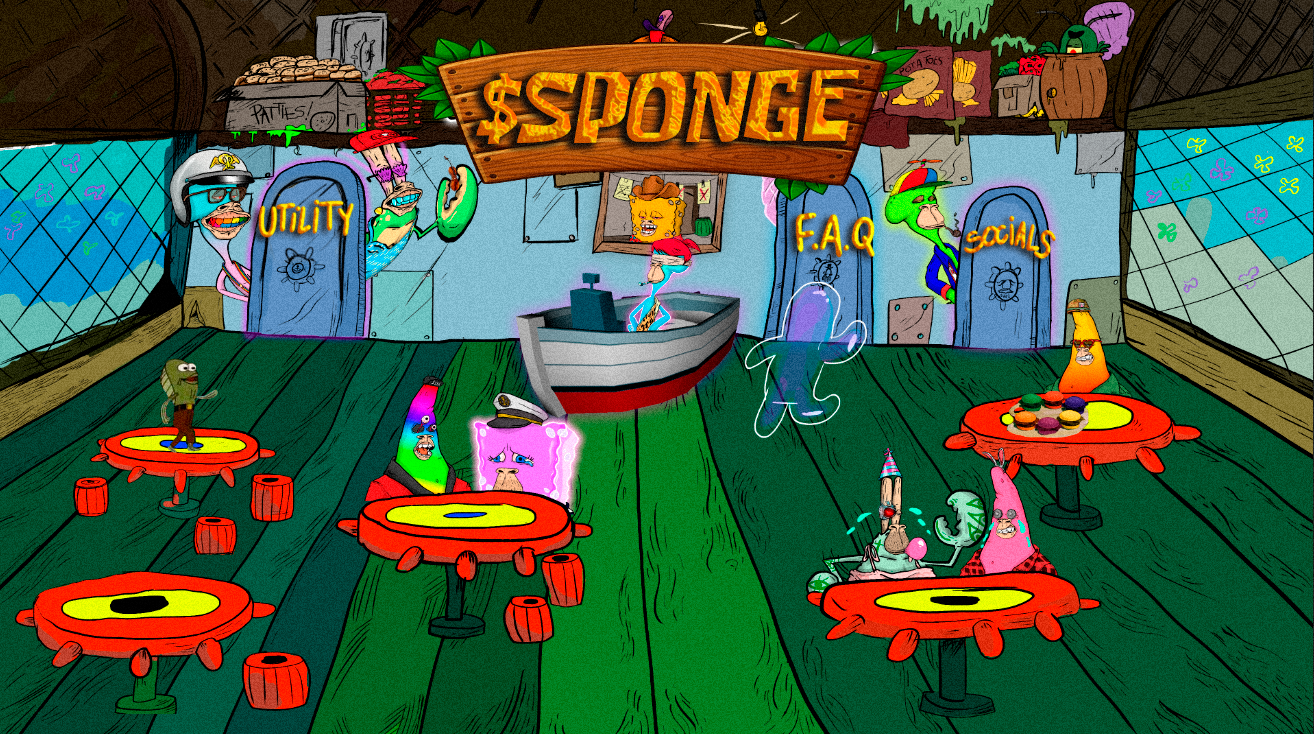
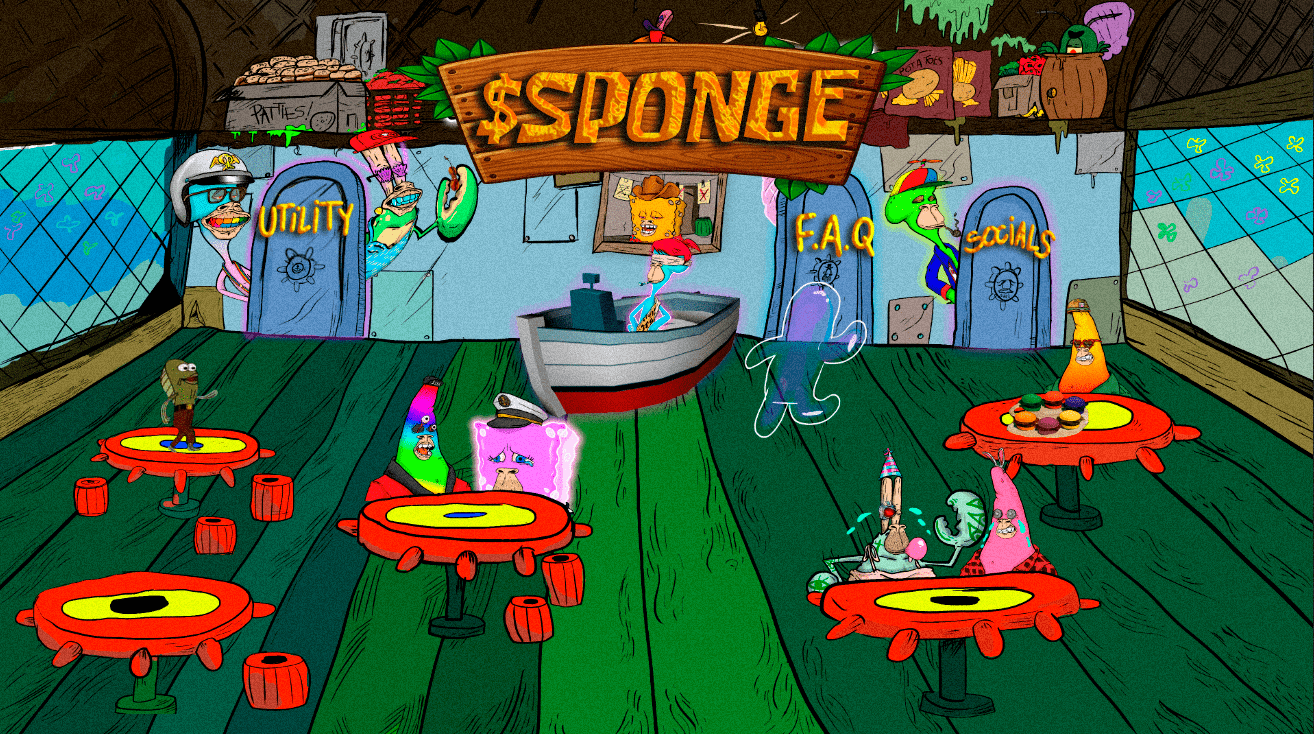
new

diff --git a/index.html b/index.html
@@ -30,7 +30,7 @@
         <img class="main-img first" src="./img/site.png" usemap="#image-map" />
         <img class="main-img" src="./img/FOG_BACKGROUND.png" />
         <img class="main-img" src="./img/FAQ---SPONGEBORED.png" />
-        <img class="main-img" src="./img/socials.png" usemap="#image-map2" />
+        <img class="main-img" src="./img/socials2.png" usemap="#image-map2" />
 
         <map name="image-map">
           <area
@@ -62,26 +62,26 @@
         <map name="image-map2">
           <area
             target="_blank"
-            alt=""
-            title=""
-            href="https://twitter.com/spongeyerc"
-            coords="337,918,1321,2125"
+            alt="telegram"
+            title="telegram"
+            href="#"
+            coords="314,233,844,986"
             shape="rect"
           />
           <area
             target="_blank"
-            alt=""
-            title=""
+            alt="x"
+            title="x"
             href="#"
-            coords="1521,954,2420,2120"
+            coords="901,317,1023,742"
             shape="rect"
           />
           <area
             target="_blank"
-            alt=""
-            title=""
+            alt="etherscan"
+            title="etherscan"
             href="#"
-            coords="2725,965,3648,2145"
+            coords="1078,307,1512,836"
             shape="rect"
           />
         </map>
